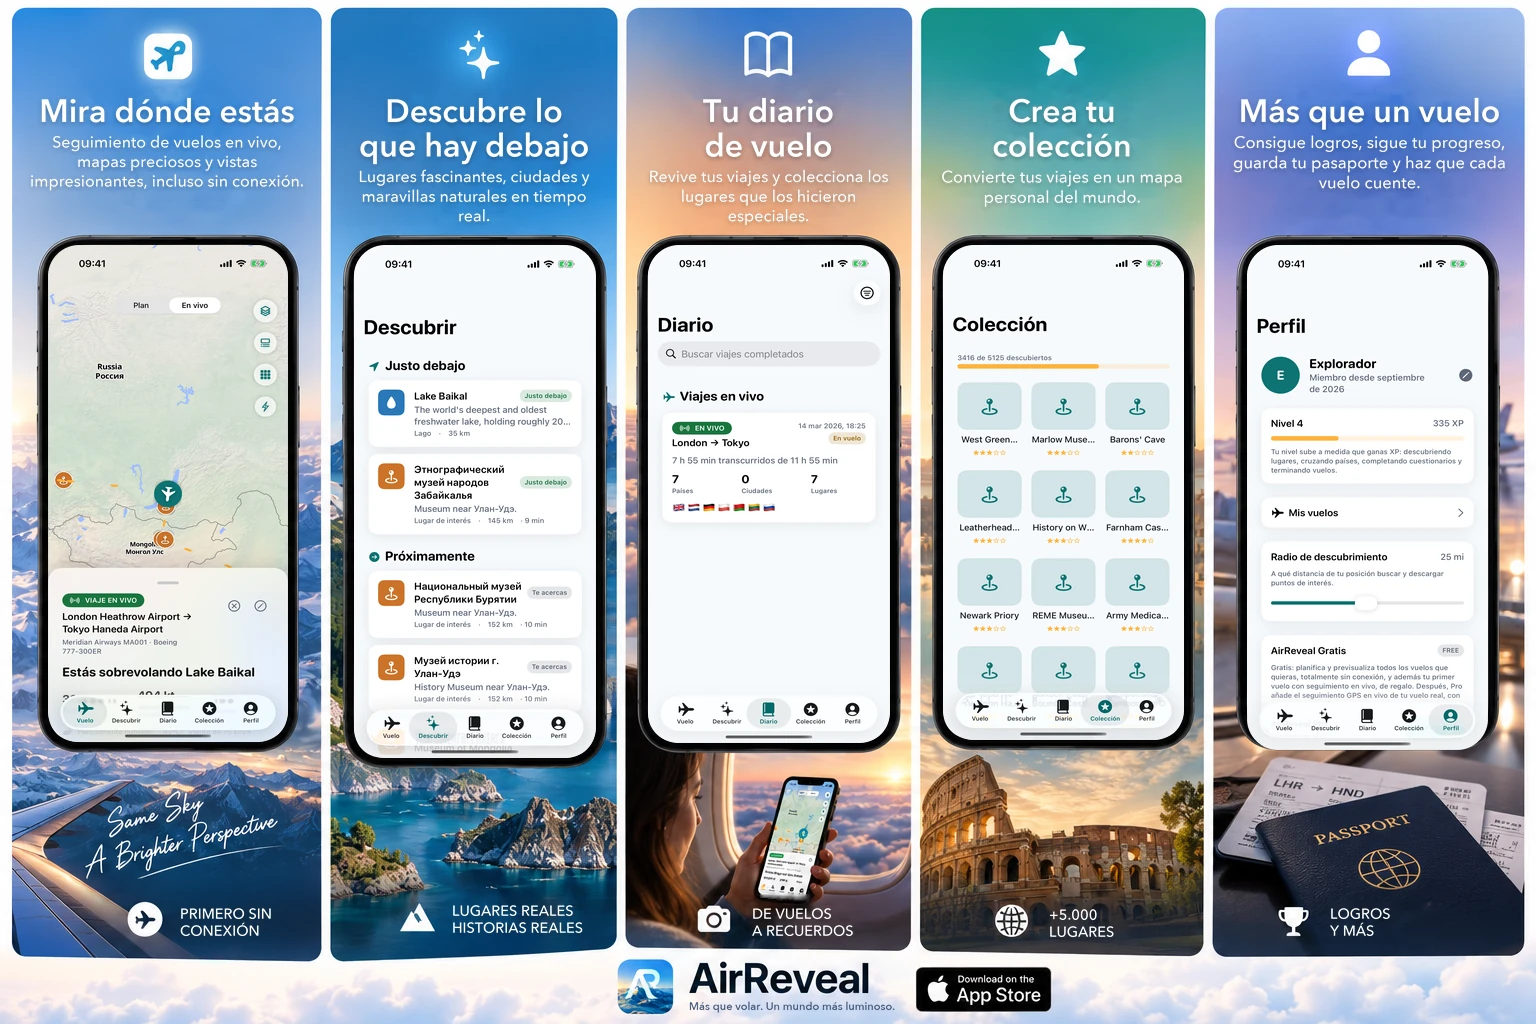
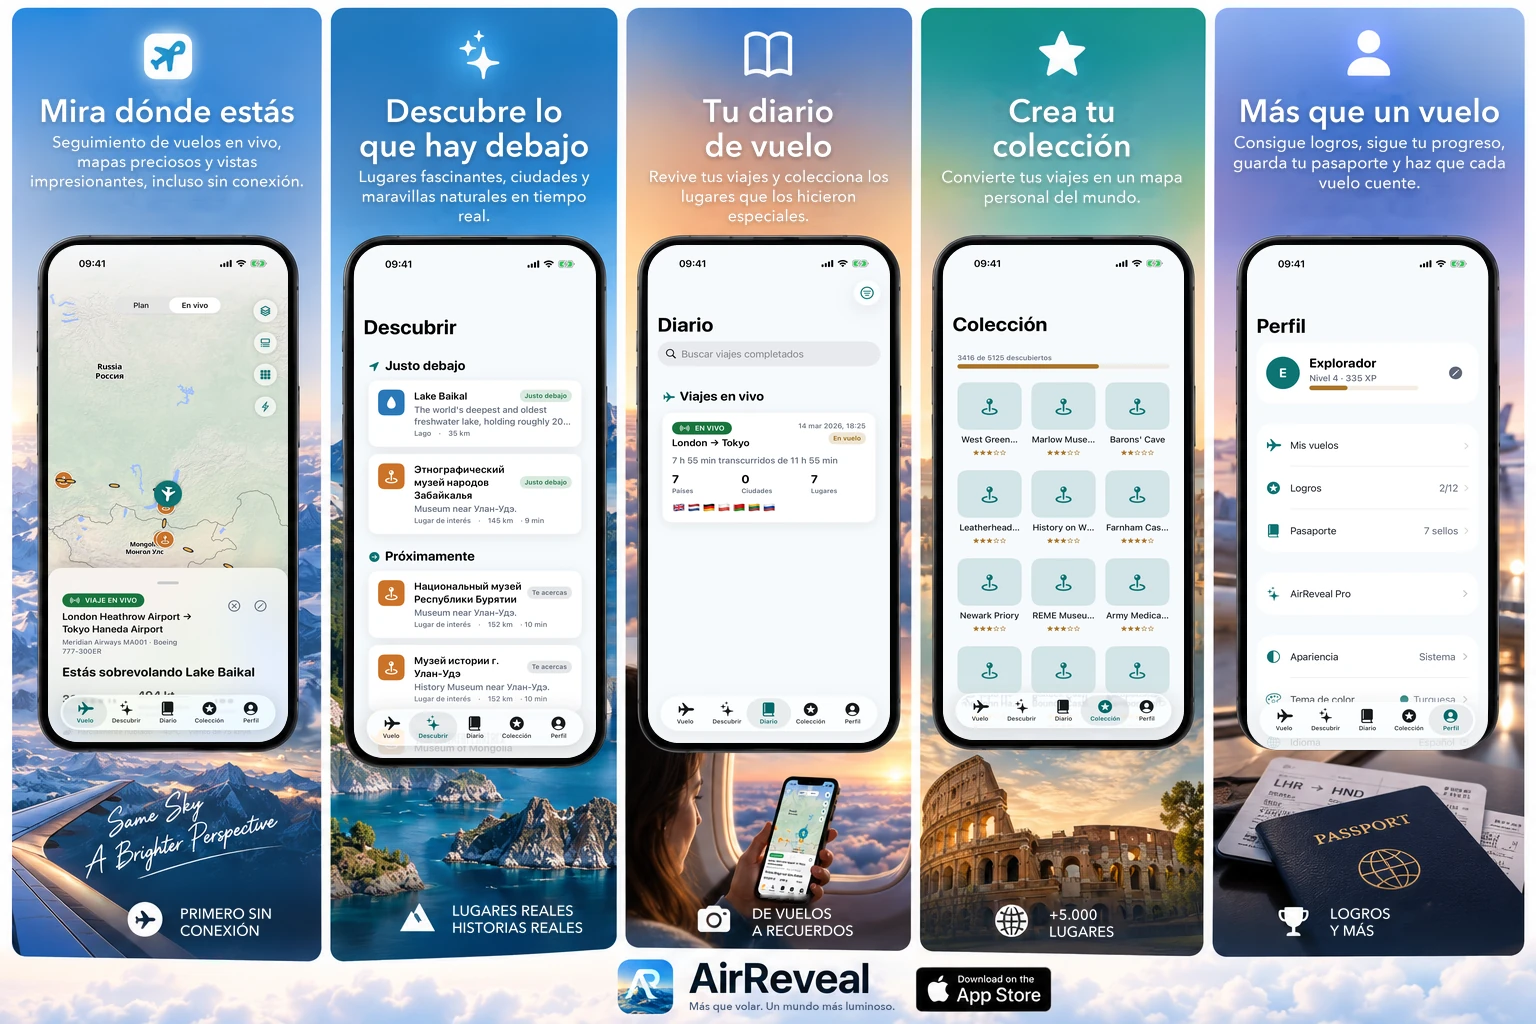
Update site screenshots for the redesigned Profile screen
Recaptured Profile in English, Spanish, French, German, Italian and Brazilian
Portuguese and rebuilt the places the site shows it: the "More Than a Flight"
feature panel (all six languages) and the fifth phone in the hero artwork
(all six; English replaces only that phone's screen, text untouched). The
localized hero artwork was regenerated from fresh captures.

The iPad Profile image is not shown on the site and the capture includes a
Debug-only row, so it is left as it was. tools/localize_screenshots.py gains a
panel list and an --english mode; localize_wide_art.py gains --english.

diff --git a/tools/localize_screenshots.py b/tools/localize_screenshots.py
@@ -2,7 +2,13 @@
 """
 Builds the localized screenshot images used by the translated site pages.
 
-    python3 tools/localize_screenshots.py <raw-dir>
+    python3 tools/localize_screenshots.py <raw-dir> [panel,panel,...] [--english]
+
+With a comma-separated panel list (flight,discover,journal,collection,profile)
+only those panels' images are rebuilt, so one changed screen doesn't churn the
+rest. `--english` also rebuilds the English images (`images/panel-*.webp`,
+`images/ipad-*.webp`) from the raw `en` captures, using the ORIGINAL photo
+panel from git (`git show HEAD:images/panel-<name>.webp`) as the template.
 
 `<raw-dir>` holds captures made by the app's `LocalizedScreenshotUITests`
 (see that file for the capture command), laid out as
@@ -21,6 +27,8 @@ with `<lang>` one of es, fr, de, it, pt-BR. Output goes to
 `marketing-poster.webp` and `marketing-wide.webp` are designed graphics with
 the tagline baked into the artwork, so they are not regenerated.
 """
+from __future__ import annotations
+
 from PIL import Image, ImageFilter, ImageDraw
 import sys
 
@@ -127,21 +135,35 @@ def composite(panel_path, shot_path, out_path, quality=88):
     return out
 
 
-def main(raw: Path) -> None:
+def main(raw: Path, only: list[str] | None = None, english: bool = False) -> None:
+    import subprocess
     images = ROOT / "images"
+    wanted = only or list(PANELS)
     for lang in LANGS:
         out = images / lang.lower()
         out.mkdir(exist_ok=True)
-        for panel, name in PANELS.items():
-            composite(images / f"panel-{panel}.webp", raw / "iphone" / lang / f"{name}.png", out / f"panel-{panel}.webp")
-        for shot, name in IPAD.items():
-            im = Image.open(raw / "ipad" / lang / f"{name}.png").convert("RGB").resize((900, 1200), Image.LANCZOS)
-            im.save(out / f"ipad-{shot}.webp", "WEBP", quality=88, method=6)
-        print(f"{lang}: {len(PANELS)} panels + {len(IPAD)} iPad images -> {out.relative_to(ROOT)}")
+        for panel in wanted:
+            composite(images / f"panel-{panel}.webp", raw / "iphone" / lang / f"{PANELS[panel]}.png", out / f"panel-{panel}.webp")
+            ipad = Image.open(raw / "ipad" / lang / f"{IPAD[panel]}.png").convert("RGB").resize((900, 1200), Image.LANCZOS)
+            ipad.save(out / f"ipad-{panel}.webp", "WEBP", quality=88, method=6)
+        print(f"{lang}: {', '.join(wanted)} -> {out.relative_to(ROOT)}")
+    if english:
+        for panel in wanted:
+            # Template = the original photo panel, not a previously composited one.
+            template = images / f".template-panel-{panel}.webp"
+            template.write_bytes(subprocess.check_output(["git", "show", f"HEAD:images/panel-{panel}.webp"], cwd=ROOT))
+            try:
+                composite(template, raw / "iphone" / "en" / f"{PANELS[panel]}.png", images / f"panel-{panel}.webp")
+            finally:
+                template.unlink()
+            ipad = Image.open(raw / "ipad" / "en" / f"{IPAD[panel]}.png").convert("RGB").resize((900, 1200), Image.LANCZOS)
+            ipad.save(images / f"ipad-{panel}.webp", "WEBP", quality=88, method=6)
+        print(f"en: {', '.join(wanted)} -> images/")
 
 
 if __name__ == "__main__":
-    if len(sys.argv) != 2:
+    args = [a for a in sys.argv[1:] if not a.startswith("--")]
+    if not args or len(args) > 2:
         print(__doc__)
         sys.exit(2)
-    main(Path(sys.argv[1]))
+    main(Path(args[0]), args[1].split(",") if len(args) > 1 else None, "--english" in sys.argv)

diff --git a/tools/localize_wide_art.py b/tools/localize_wide_art.py
@@ -4,6 +4,11 @@ Localizes the five-panel marketing artwork (`marketing-wide`) for the
 translated site pages.
 
     python3 tools/localize_wide_art.py <source.png> <raw-dir> [<out-dir>]
+    python3 tools/localize_wide_art.py <source.png> <raw-dir> --english [panel,...]
+
+With `--english`, the English artwork is rebuilt in place: no text is touched, only
+the named phones' screens (default: profile) are replaced with the `en` captures,
+written to `images/marketing-wide.webp`.
 
   <source.png>  the flat 1536x1024 artwork (English text baked in)
   <raw-dir>     localized app captures, as for `localize_screenshots.py`
@@ -250,6 +255,20 @@ def localize(src: Image.Image, raw: Path, lang: str) -> Image.Image:
     return Image.alpha_composite(img.convert("RGBA"), foot).convert("RGB")
 
 
+def english_screens(src: Image.Image, raw: Path, which: list[str]) -> Image.Image:
+    """The English artwork with only some phones' screens replaced (text untouched)."""
+    names = {"flight": 0, "discover": 1, "journal": 2, "collection": 3, "profile": 4}
+    img = src.convert("RGB")
+    for key in which:
+        p = PANELS[names[key]]
+        x0, x1, y0, y1 = p["screen"]
+        shot = Image.open(raw / "iphone" / "en" / f"{p['raw']}.png").convert("RGB").resize((x1 - x0, y1 - y0), Image.LANCZOS)
+        layer = Image.new("RGB", img.size)
+        layer.paste(shot, (x0, y0))
+        img = Image.composite(layer, img, rounded_mask(img.size, p["screen"], 31))
+    return img
+
+
 def main(src: Path, raw: Path, out: Path) -> None:
     source = Image.open(src)
     assert source.size == (1536, 1024), f"unexpected artwork size {source.size}"
@@ -261,6 +280,13 @@ def main(src: Path, raw: Path, out: Path) -> None:
 
 
 if __name__ == "__main__":
+    if "--english" in sys.argv:
+        rest = [a for a in sys.argv[1:] if a != "--english"]
+        which = rest[2].split(",") if len(rest) > 2 else ["profile"]
+        art = english_screens(Image.open(rest[0]), Path(rest[1]), which)
+        art.save(ROOT / "images" / "marketing-wide.webp", "WEBP", quality=90, method=6)
+        print(f"en: replaced {', '.join(which)} in images/marketing-wide.webp")
+        sys.exit(0)
     if len(sys.argv) not in (3, 4):
         print(__doc__)
         sys.exit(2)
